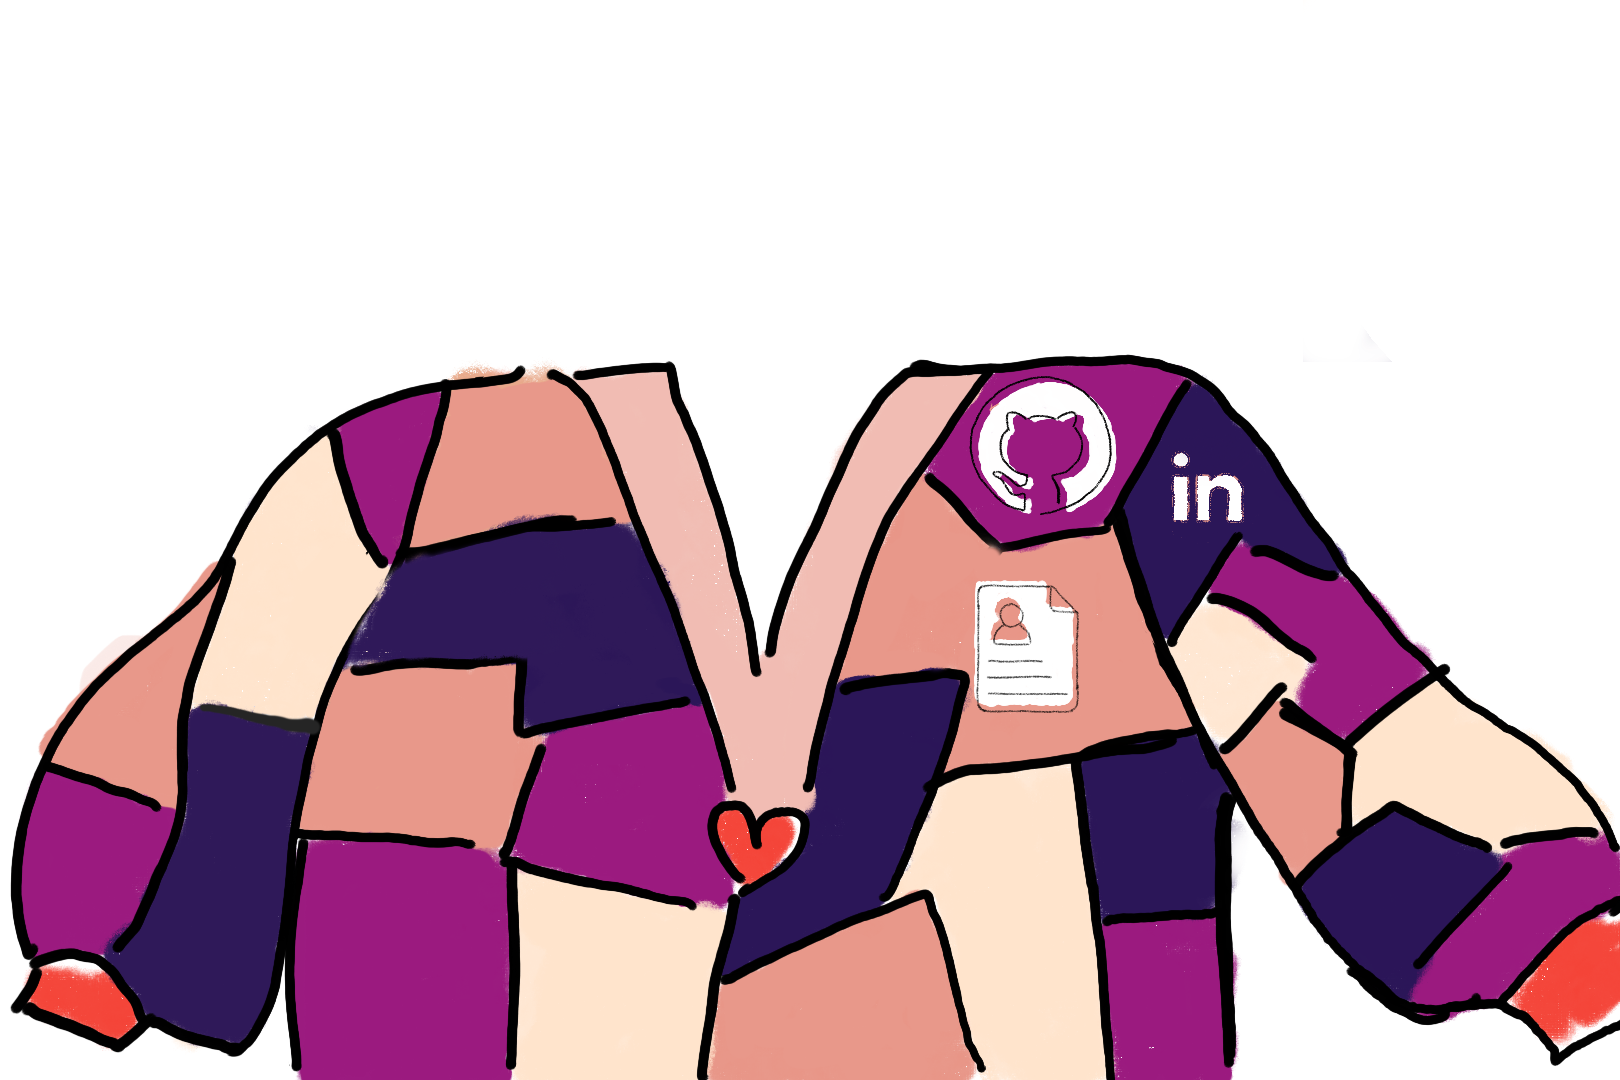
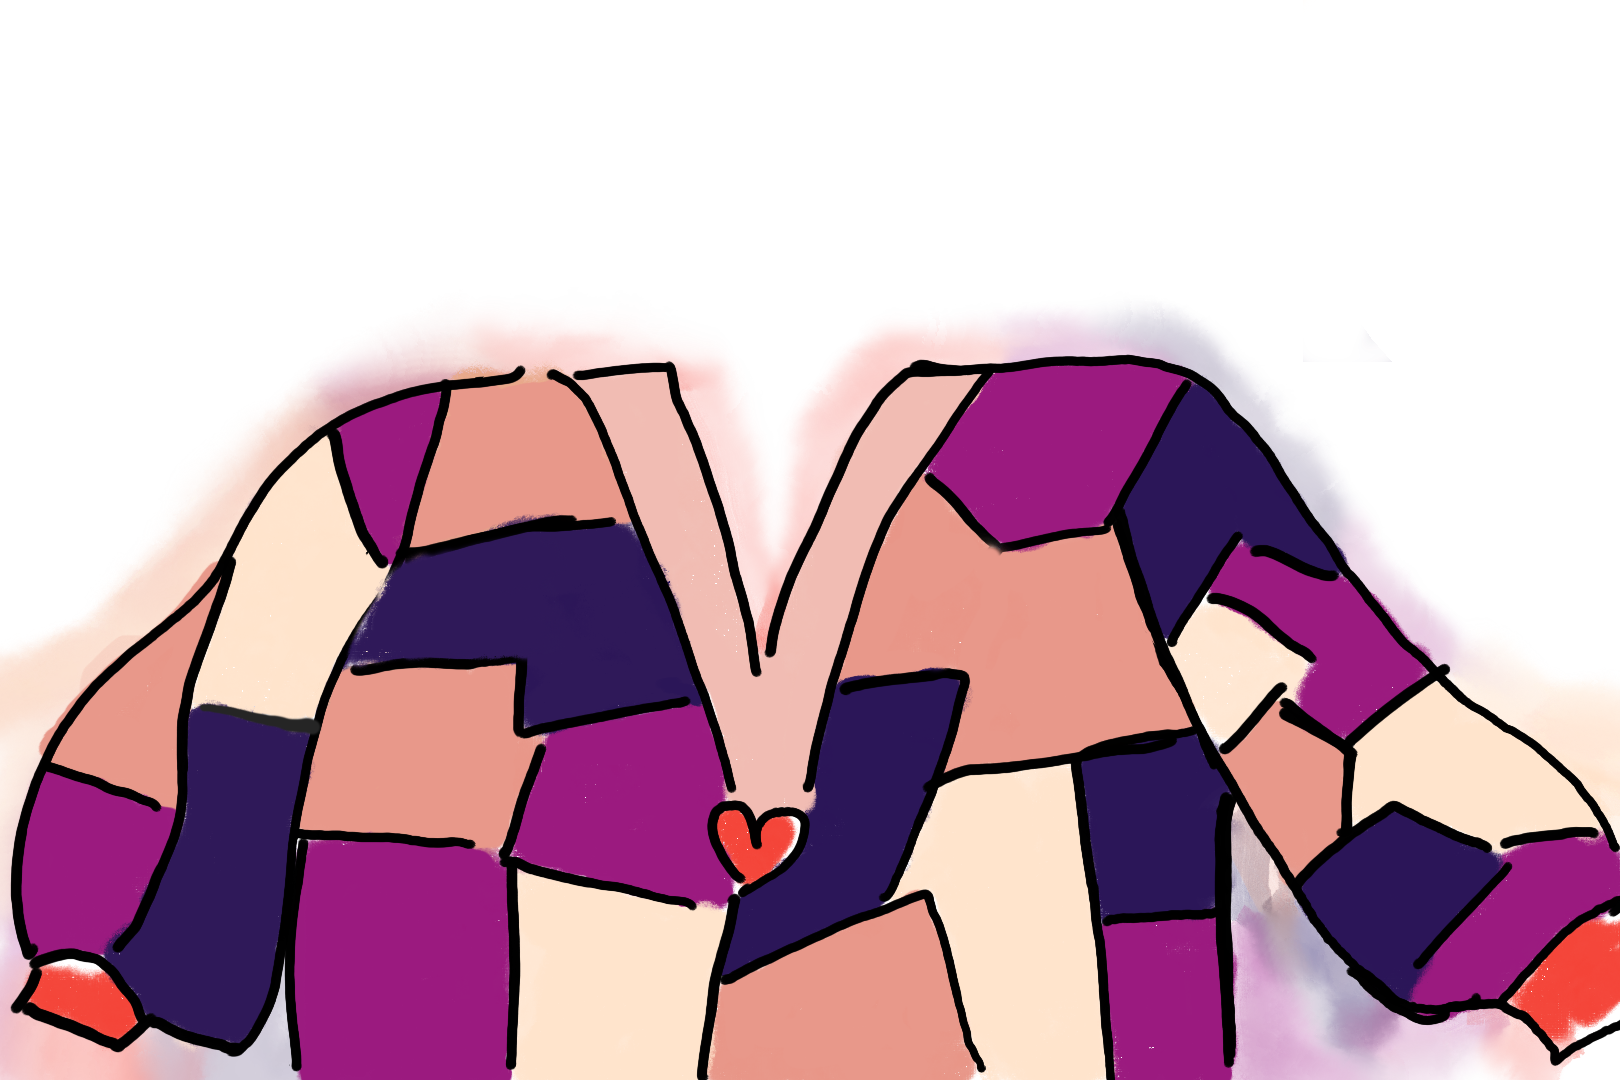
Refactor profile section and update interactive patches with placeholders

Changed region(s): [[0.0, 0.275, 1.0, 1.0], [0.7407, 0.7333, 0.9877, 1.0], [0.5864, 0.5194, 0.679, 0.6722]]

diff --git a/src/components/InteractivePatches.tsx b/src/components/InteractivePatches.tsx
@@ -5,105 +5,43 @@ import Link from 'next/link'
 export default function InteractivePatches() {
   return (
     <svg viewBox="0 0 1620 1080" preserveAspectRatio="xMidYMid slice">
-      <Link href="/about" id="about-link" className="patch-link">
+      <Link href="" id="placeholder1-link" className="patch-link">
         <g className="patch-group">
           <polygon 
             className="patch" 
             points="441.5,393.5 403.5,554 633.5,515.5 579.5,380 441.5,393.5" 
           />
-          <text x="520" y="450" className="patch-text">About Me</text>
+          <text x="520" y="450" className="patch-text">1</text>
         </g>
       </Link>
 
-      <Link href="https://github.com/ngavu2004" id="github-link" className="patch-link" target="_blank" rel="noopener noreferrer">
+      <Link href="" id="placeholder2-link" className="patch-link" target="_blank" rel="noopener noreferrer">
         <g className="patch-group">
           <polygon 
             className="patch" 
             points="988,370.5 926,471 997.5,547.5 1110,528 1188.5,379 1124,361 988,370.5" 
           />
-          <text x="1050" y="450" className="patch-text">GitHub</text>
+          <text x="1050" y="450" className="patch-text">2</text>
         </g>
       </Link>
 
-      <Link href="https://drive.google.com/file/d/1gMn9RTJeB4Yf9pdz9AKnXc66aIHU3MYs/view?usp=sharing" id="resume-link" className="patch-link" target="_blank" rel="noopener noreferrer">
+      <Link href="" id="placeholder3-link" className="patch-link" target="_blank" rel="noopener noreferrer">
         <g className="patch-group">
           <polygon 
             className="patch" 
             points="884.5,522 833.5,685 964.5,677.5 932,782.5 1192,726 1116,522 998.5,549.5 921.5,469 884.5,522" 
           />
-          <text x="997" y="633" className="patch-text">Resume</text>
+          <text x="997" y="633" className="patch-text">3</text>
         </g>
       </Link>
 
-      <Link href="https://www.linkedin.com/in/nga-vu-269626226/" id="linkedin-link" className="patch-link" target="_blank" rel="noopener noreferrer">
+      <Link href="" id="placeholder4-link" className="patch-link" target="_blank" rel="noopener noreferrer">
         <g className="patch-group">
           <polygon
             className="patch"
             points="1194,376.5 1113.5,520 1161,644 1246,545 1348,564 1194,376.5"
           />
-          <text x="1220" y="480" className="patch-text">LinkedIn</text>
-        </g>
-      </Link>
-
-      <Link href="" id="job-link" className="patch-link">
-        <g className="patch-group">
-          <polygon
-            className="patch"
-            points="340,671 295,829 516,856 548,750 516,734.5 516,671 340,671"
-          />
-          <text x="420" y="750" className="patch-text" fontSize="20">
-            Blogs
-          </text>
-        </g>
-      </Link>
-
-      <Link href="" id="recipe-link" className="patch-link">
-        <g className="patch-group">
-          <polygon
-            className="patch"
-            points="707.5,704.5 551,733 508,853 726.5,911.5 739.5,894.5 714.5,853 714.5,818.5 733.5,798.5 707.5,704.5"
-          />
-          <text x="610" y="800" className="patch-text">Recipes</text>
-        </g>
-      </Link>
-
-      <Link href="" id="placeholder1-link" className="patch-link">
-        <g className="patch-group">
-          <polygon
-            className="patch"
-            points="401.5,557 338.5,671 523,665.5 518.5,734.5 700.5,697 635.5,515.5 401.5,557"
-          />
-          <text x="500" y="600" className="patch-text">Projects</text>
-        </g>
-      </Link>
-
-      <Link href="" id="placeholder2-link" className="patch-link">
-        <g className="patch-group">
-          <polygon
-            className="patch"
-            points="287,962.5 299,1077.5 514,1077.5 514,962.5 504.5,856.5 396.5,843.5 299,843.5 287,962.5"
-          />
-          <text x="400" y="920" className="patch-text">2</text>
-        </g>
-      </Link>
-
-      <Link href="" id="placeholder3-link" className="patch-link">
-        <g className="patch-group">
-          <polygon
-            className="patch"
-            points="728,912.5 519,865 519,1073 701.5,1073 728,912.5"
-          />
-          <text x="600" y="950" className="patch-text">3</text>
-        </g>
-      </Link>
-
-      <Link href="" id="placeholder4-link" className="patch-link">
-        <g className="patch-group">
-          <polygon
-            className="patch"
-            points="959.5,671.5 833.5,689.5 804,818.5 795.5,854.5 738.5,892.5 720.5,982.5 883.5,906.5 938,783 959.5,671.5"
-          />
-          <text x="850" y="800" className="patch-text">4</text>
+          <text x="1220" y="480" className="patch-text">4</text>
         </g>
       </Link>
 
@@ -111,9 +49,9 @@ export default function InteractivePatches() {
         <g className="patch-group">
           <polygon
             className="patch"
-            points="942,779.5 885.5,904 924.5,893 986,1072.5 1109,1072.5 1068,764 942,779.5"
+            points="340,671 295,829 516,856 548,750 516,734.5 516,671 340,671"
           />
-          <text x="1020" y="800" className="patch-text">5</text>
+          <text x="420" y="750" className="patch-text" fontSize="20">5</text>
         </g>
       </Link>
 
@@ -121,9 +59,9 @@ export default function InteractivePatches() {
         <g className="patch-group">
           <polygon
             className="patch"
-            points="1231.5,918 1231.5,1072.5 1112,1072.5 1096,927.5 1231.5,918"
+            points="707.5,704.5 551,733 508,853 726.5,911.5 739.5,894.5 714.5,853 714.5,818.5 733.5,798.5 707.5,704.5"
           />
-          <text x="1150" y="950" className="patch-text">6</text>
+          <text x="610" y="800" className="patch-text">6</text>
         </g>
       </Link>
 
@@ -131,9 +69,69 @@ export default function InteractivePatches() {
         <g className="patch-group">
           <polygon
             className="patch"
+            points="401.5,557 338.5,671 523,665.5 518.5,734.5 700.5,697 635.5,515.5 401.5,557"
+          />
+          <text x="500" y="600" className="patch-text">7</text>
+        </g>
+      </Link>
+
+      <Link href="" id="placeholder8-link" className="patch-link">
+        <g className="patch-group">
+          <polygon
+            className="patch"
+            points="287,962.5 299,1077.5 514,1077.5 514,962.5 504.5,856.5 396.5,843.5 299,843.5 287,962.5"
+          />
+          <text x="400" y="920" className="patch-text">8</text>
+        </g>
+      </Link>
+
+      <Link href="" id="placeholder9-link" className="patch-link">
+        <g className="patch-group">
+          <polygon
+            className="patch"
+            points="728,912.5 519,865 519,1073 701.5,1073 728,912.5"
+          />
+          <text x="600" y="950" className="patch-text">9</text>
+        </g>
+      </Link>
+
+      <Link href="" id="placeholder10-link" className="patch-link">
+        <g className="patch-group">
+          <polygon
+            className="patch"
+            points="959.5,671.5 833.5,689.5 804,818.5 795.5,854.5 738.5,892.5 720.5,982.5 883.5,906.5 938,783 959.5,671.5"
+          />
+          <text x="850" y="800" className="patch-text">10</text>
+        </g>
+      </Link>
+
+      <Link href="" id="placeholder11-link" className="patch-link">
+        <g className="patch-group">
+          <polygon
+            className="patch"
+            points="942,779.5 885.5,904 924.5,893 986,1072.5 1109,1072.5 1068,764 942,779.5"
+          />
+          <text x="1020" y="800" className="patch-text">11</text>
+        </g>
+      </Link>
+
+      <Link href="" id="placeholder12-link" className="patch-link">
+        <g className="patch-group">
+          <polygon
+            className="patch"
+            points="1231.5,918 1231.5,1072.5 1112,1072.5 1096,927.5 1231.5,918"
+          />
+          <text x="1150" y="950" className="patch-text">12</text>
+        </g>
+      </Link>
+
+      <Link href="" id="placeholder13-link" className="patch-link">
+        <g className="patch-group">
+          <polygon
+            className="patch"
             points="1196,731.5 1078,759.5 1099.5,920 1226,911.5 1226,911.5 1226,813 1239,797 1196,731.5"
           />
-          <text x="1150" y="830" className="patch-text">7</text>
+          <text x="1150" y="830" className="patch-text">13</text>
         </g>
       </Link>
     </svg>

diff --git a/src/app/globals.css b/src/app/globals.css
@@ -90,41 +90,6 @@ p {
     text-shadow: 1px 1px 2px rgba(0, 0, 0, 0.5);
 }
 
-/* Option 1: Profile section with content */
-.content-wrapper {
-  display: flex;
-  align-items: center;
-  gap: 30px;
-  flex-direction: row;
-}
-
-.profile-section {
-  display: flex;
-  align-items: center;
-  gap: 25px;
-  pointer-events: auto; /* Enable pointer events for profile section */
-}
-
-.profile-image {
-  position: relative;
-  border-radius: 50%;
-  overflow: hidden;
-  /* border: 1px solid var(--cardigan-blue); */
-  box-shadow: 0 8px 32px var(--cardigan-purple);
-  background: var(--cardigan-cream);
-  transition: box-shadow 0.3s ease; /* Smooth transition for hover effect */
-}
-
-.profile-pic {
-  border-radius: 50%;
-  object-fit: cover;
-  display: block;
-}
-
-.profile-image:hover {
-    box-shadow: 0 12px 48px var(--cardigan-orange);
-}
-
 .svg-container {
     position: absolute;
     top: 0;
@@ -132,7 +97,6 @@ p {
     width: 100%;
     height: 100%;
     z-index: 1; /* Below content, above background image */
-    transform: translateY(50px);
 }
 
 .background-image {
@@ -173,13 +137,6 @@ svg {
     pointer-events: none; /* Let clicks pass through to patch */
     opacity: 0; /* Hidden by default */
     transition: all 0.3s ease;
-}
-
-#about-link .patch-text
-{
-    opacity: 1; /* Show text by default for the About patch */
-    font-size: 2rem;
-    text-shadow: 2px 2px 4px var(--cardigan-blue);
 }
 
 /* Show text on hover */

diff --git a/src/app/page.tsx b/src/app/page.tsx
@@ -1,6 +1,5 @@
 import BackgroundImage from '@/components/BackgroundImage'
 import InteractivePatches from '@/components/InteractivePatches'
-import Image from 'next/image'
 
 export default function Home() {
   return (
@@ -8,18 +7,9 @@ export default function Home() {
       <div className="overlay">
         <div className="content-wrapper">
           <div className="profile-section">
-            <div className="profile-image">
-              <Image
-                src="/images/profile.jpg" // Add your image to public/images/
-                alt="Nga Vu"
-                width={100}
-                height={100}
-                className="profile-pic"
-              />
-            </div>
             <div className="content">
-              <h1>Nga (Jane) Vu</h1>
-              <p className="location">Software Developer |📍Tempe, AZ</p>
+              <h1>Ultimate CS Girls Cardigan</h1>
+              <p className="location">Welcome to the chaotic pieces of ASU CS department!</p>
             </div>
           </div>
         </div>
